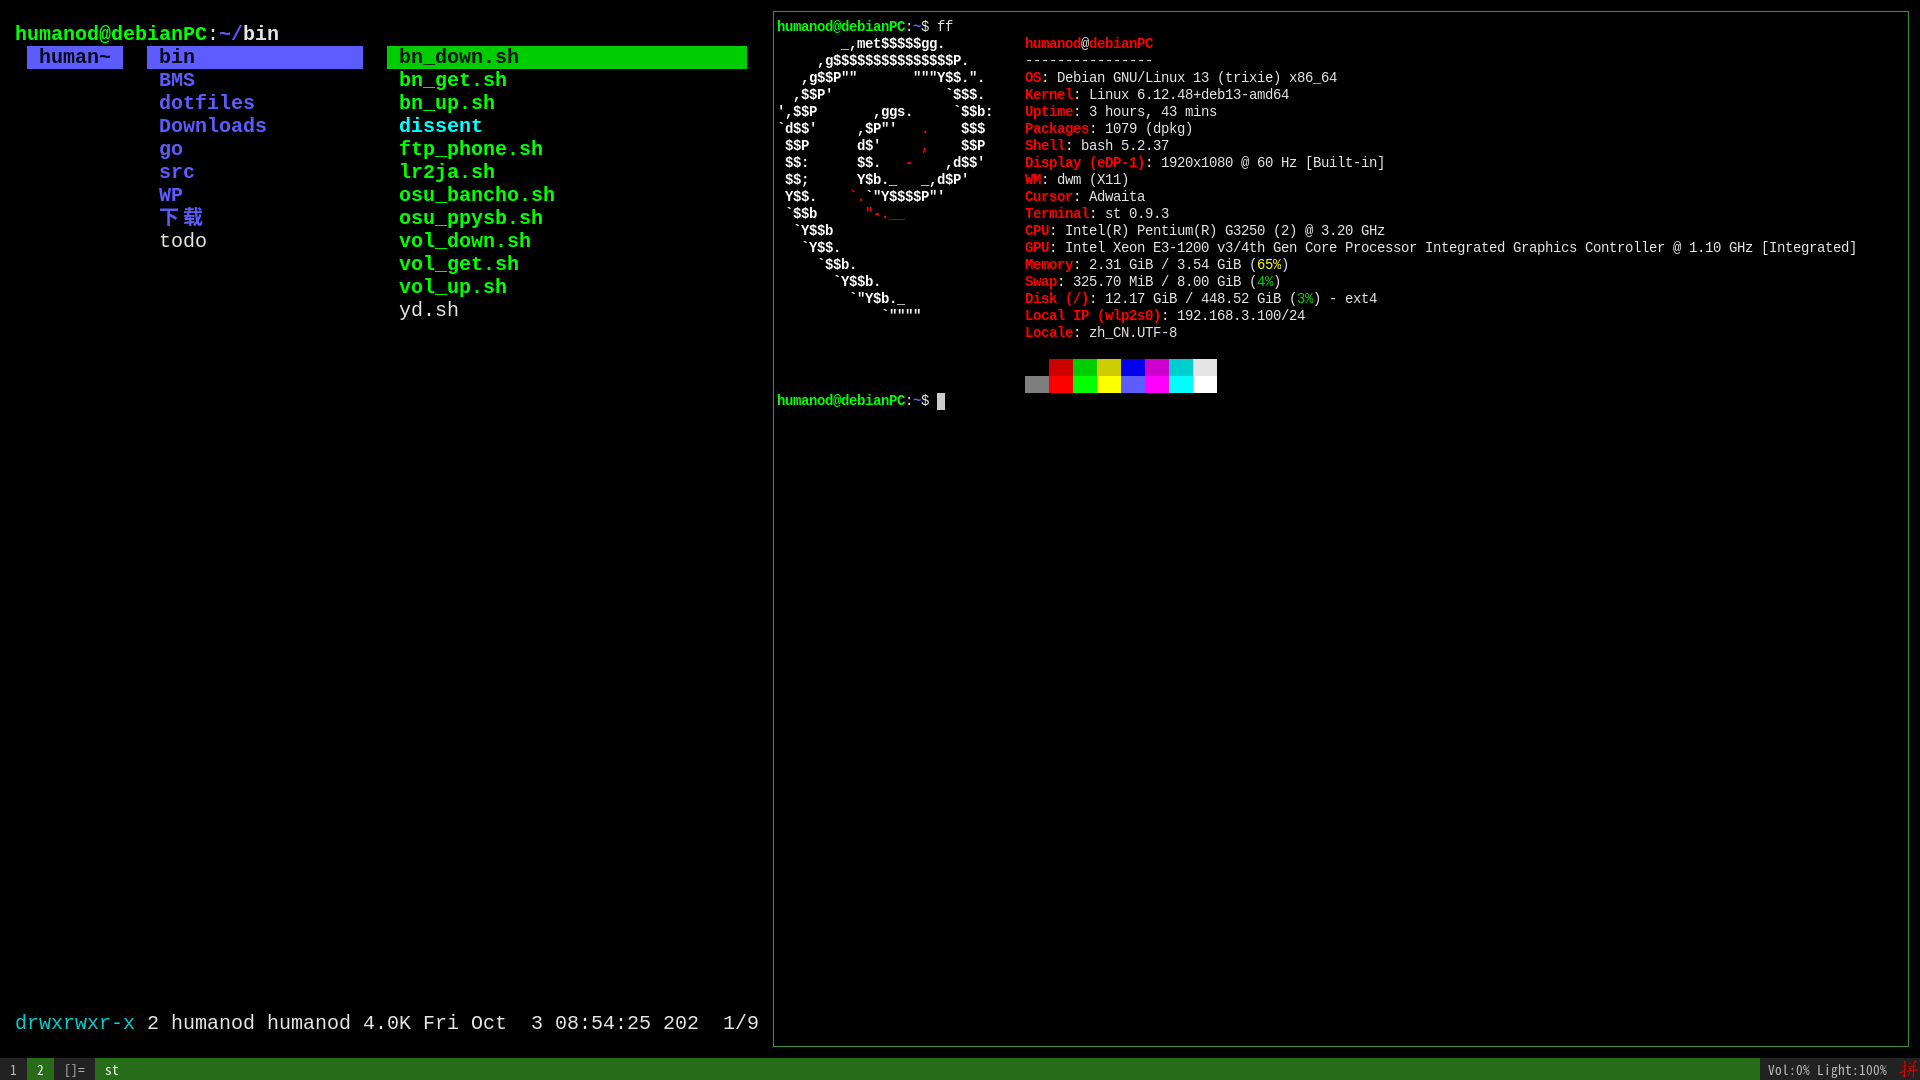
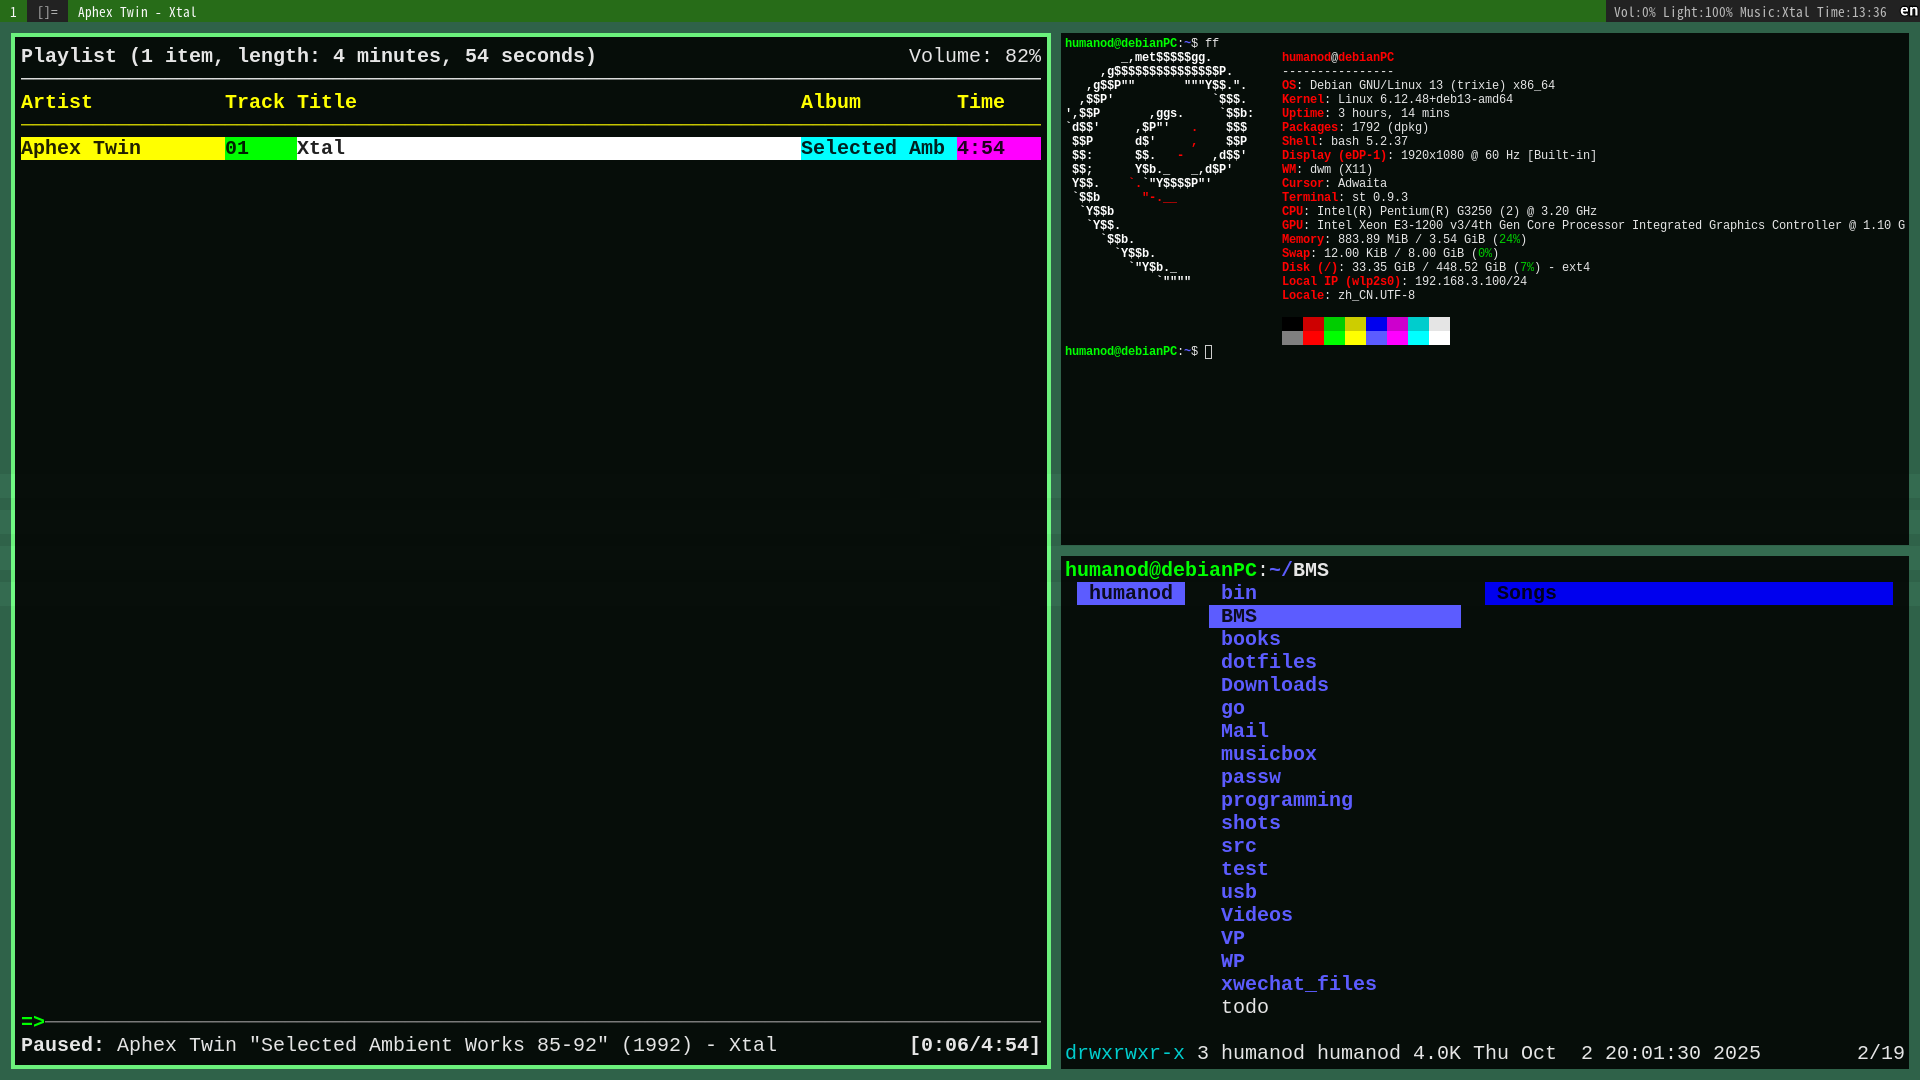
README update & change .pic/fetch.png

diff --git a/README.md b/README.md
@@ -29,5 +29,5 @@ shotfree.sh is based on 'import' of 'imagemagick'
 
 todo.sh is based on 'sent' of suckless
 
-mpc_\*.sh & mpd_\*.sh are based on 'systemctl'
+mpc_\*.sh & mpd_\*.sh are based on 'systemctl' & 'mpd' & 'mpc' & 'ncmpcpp'
 
